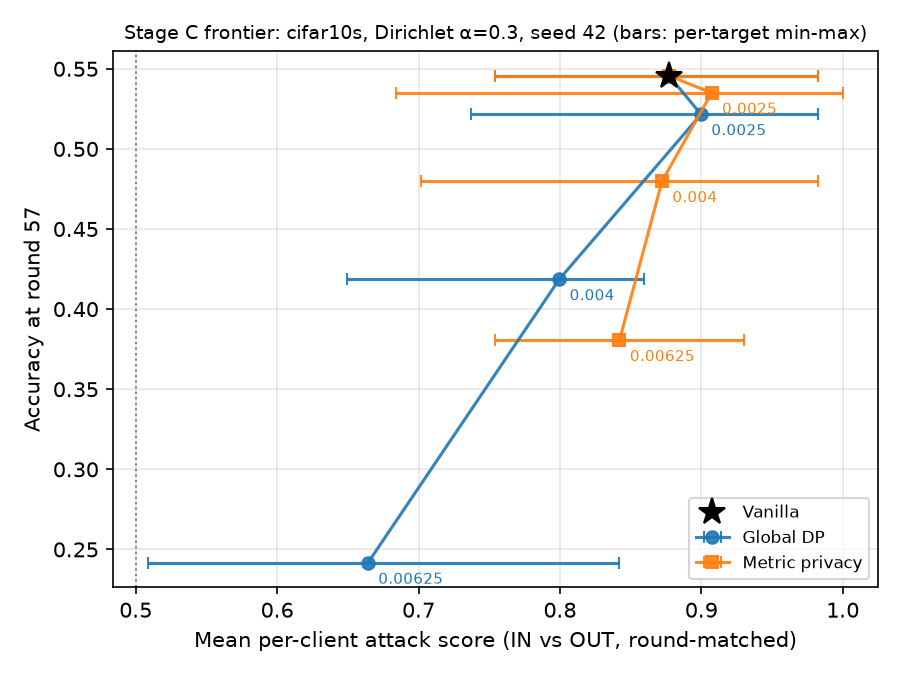
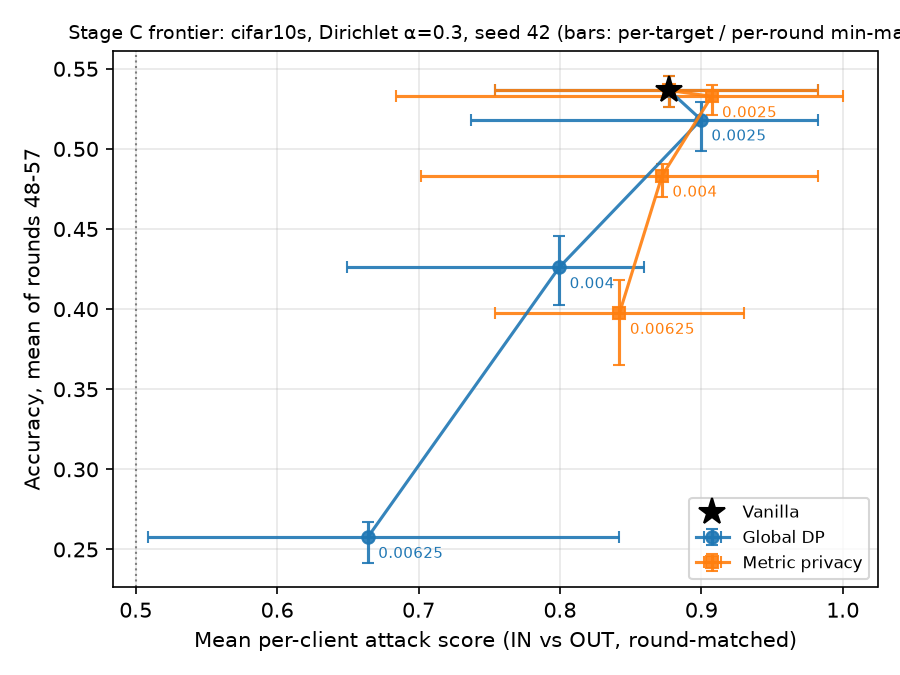
dataset_vs_model: frontier y = mean accuracy over last 10 rounds (min-max as y error bars); regenerate stage_c, stage_c_eqw, stage_c_eqw/at_round_50

Changed region(s): [[0.1556, 0.0933, 0.9333, 0.8711], [0.0622, 0.0311, 1.0, 0.0622], [0.0311, 0.2178, 0.0622, 0.7156]]

diff --git a/results/cia_frontier/dataset_vs_model/frontier.py b/results/cia_frontier/dataset_vs_model/frontier.py
@@ -1,9 +1,10 @@
-"""Stage C privacy-utility frontiers: round-matched attack score vs round-R accuracy.
+"""Stage C privacy-utility frontiers: round-matched attack score vs late-training accuracy.
 
 x = mean per-client IN/OUT attack score over targets (0.5 = no signal; per_client_score),
-y = server accuracy of the IN trajectory at its last round R. One PNG per dataset, one line
-per mechanism through its noise ratios, vanilla as the shared starting point. Error bars span
-the per-target score range (min-max).
+y = mean server accuracy of the IN trajectory over its last WINDOW rounds (R-WINDOW+1..R); under DP
+the per-round accuracy swings by up to ~15 points on EuroSAT, so one round is not representative.
+One PNG per dataset, one line per mechanism through its noise ratios, vanilla as the shared starting
+point. x error bars span the per-target score range, y error bars the accuracy range over the window.
 
     python -m results.cia_frontier.dataset_vs_model.frontier [--root DIR]
 """
@@ -16,11 +17,19 @@ from pathlib import Path
 from results.cia_frontier.per_client_score import score_directories
 
 ROOT = Path("results/cia_frontier/dataset_vs_model/results/stage_c")
+WINDOW = 10
 STYLE = {"global-dp": ("tab:blue", "o", "Global DP"), "metric-privacy": ("tab:orange", "s", "Metric privacy")}
 
 
+def window_accuracy(metrics: dict, rounds: int, window: int = WINDOW) -> dict:
+    """Mean/min/max server accuracy over rounds max(1, R-window+1)..R, plus the round-R value."""
+    values = [float(metrics[str(r)]["accuracy"]) for r in range(max(1, rounds - window + 1), rounds + 1)]
+    return {"accuracy": sum(values) / len(values), "accuracy_min": min(values), "accuracy_max": max(values),
+            "accuracy_final": float(metrics[str(rounds)]["accuracy"]), "accuracy_window": len(values)}
+
+
 def accuracies(root: Path, at_round: int | None = None) -> dict:
-    """{(dataset, privacy, noise_ratio): (round-R accuracy, R, training s)} from IN trajectories."""
+    """{(dataset, privacy, noise_ratio): window_accuracy(...)} from IN trajectories."""
     out = {}
     for path in sorted(root.rglob("manifest.json")):
         manifest = json.loads(path.read_text())
@@ -30,7 +39,7 @@ def accuracies(root: Path, at_round: int | None = None) -> dict:
         metrics = json.loads(run.read_text())["server_evaluate_metrics"]
         rounds = at_round or manifest["rounds"]
         out[(manifest["dataset"], manifest["privacy"], manifest["noise_ratio"])] = \
-            float(metrics[str(rounds)]["accuracy"])
+            window_accuracy(metrics, rounds)
     return out
 
 
@@ -41,12 +50,13 @@ def build(root: Path, at_round: int | None = None) -> dict:
         key = (entry["dataset"], entry["privacy"], entry["noise_ratio"])
         scores = list(entry["per_target"].values())
         settings.append({"dataset": key[0], "privacy": key[1], "noise_ratio": key[2],
-                         "rounds": at_round or entry["rounds"], "accuracy": acc[key], "mean_score": entry["mean"],
+                         "rounds": at_round or entry["rounds"], **acc[key], "mean_score": entry["mean"],
                          "min_score": min(scores), "max_score": max(scores),
                          "per_target": entry["per_target"], "matched_rounds": entry["matched_rounds"]})
     settings.sort(key=lambda s: (s["dataset"], s["privacy"] != "vanilla", s["privacy"], s["noise_ratio"]))
     return {"x": "mean per-client round-matched IN/OUT score (0.5 = no signal)",
-            "y": "IN-trajectory server accuracy at round R", "error_bars": "per-target min-max",
+            "y": f"IN-trajectory server accuracy, mean over the last {WINDOW} rounds up to R",
+            "error_bars": "x: per-target min-max; y: accuracy min-max over the window",
             "settings": settings}
 
 
@@ -64,15 +74,16 @@ def plot(data: dict, root: Path, out: Path | None = None) -> list[Path]:
             line = [vanilla] + sorted((s for s in rows if s["privacy"] == privacy), key=lambda s: s["noise_ratio"])
             xs, ys = [s["mean_score"] for s in line], [s["accuracy"] for s in line]
             err = [[s["mean_score"] - s["min_score"] for s in line], [s["max_score"] - s["mean_score"] for s in line]]
-            ax.errorbar(xs, ys, xerr=err, color=color, marker=marker, capsize=3, lw=1.5, label=label, alpha=0.9)
+            yerr = [[s["accuracy"] - s["accuracy_min"] for s in line], [s["accuracy_max"] - s["accuracy"] for s in line]]
+            ax.errorbar(xs, ys, xerr=err, yerr=yerr, color=color, marker=marker, capsize=3, lw=1.5, label=label, alpha=0.9)
             for s in line[1:]:
                 ax.annotate(f"{s['noise_ratio']:g}", (s["mean_score"], s["accuracy"]), textcoords="offset points",
                             xytext=(5, -10), fontsize=7, color=color)
         ax.plot(vanilla["mean_score"], vanilla["accuracy"], "k*", ms=13, zorder=5, label="Vanilla")
         ax.axvline(0.5, color="grey", ls=":", lw=1)
         ax.set_xlabel("Mean per-client attack score (IN vs OUT, round-matched)")
-        ax.set_ylabel(f"Accuracy at round {vanilla['rounds']}")
-        ax.set_title(f"Stage C frontier: {dataset}, Dirichlet α=0.3, seed 42 (bars: per-target min-max)",
+        ax.set_ylabel(f"Accuracy, mean of rounds {vanilla['rounds'] - WINDOW + 1}-{vanilla['rounds']}")
+        ax.set_title(f"Stage C frontier: {dataset}, Dirichlet α=0.3, seed 42 (bars: per-target / per-round min-max)",
                      fontsize=9)
         ax.legend(fontsize=8)
         ax.grid(alpha=0.3)

diff --git a/results/cia_frontier/dataset_vs_model/tests/test_frontier_window.py b/results/cia_frontier/dataset_vs_model/tests/test_frontier_window.py
@@ -1,0 +1,14 @@
+from results.cia_frontier.dataset_vs_model.frontier import window_accuracy
+
+
+def test_window_mean_min_max_and_final():
+    metrics = {str(r): {"accuracy": r / 100} for r in range(1, 21)}
+    acc = window_accuracy(metrics, 20, window=10)
+    assert acc["accuracy_window"] == 10
+    assert abs(acc["accuracy"] - 0.155) < 1e-12
+    assert (acc["accuracy_min"], acc["accuracy_max"], acc["accuracy_final"]) == (0.11, 0.20, 0.20)
+
+
+def test_window_truncates_at_round_one():
+    metrics = {str(r): {"accuracy": 0.5} for r in range(1, 4)}
+    assert window_accuracy(metrics, 3, window=10)["accuracy_window"] == 3
